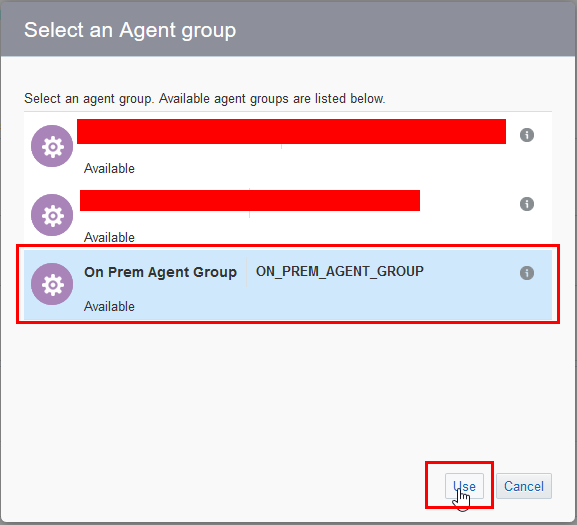
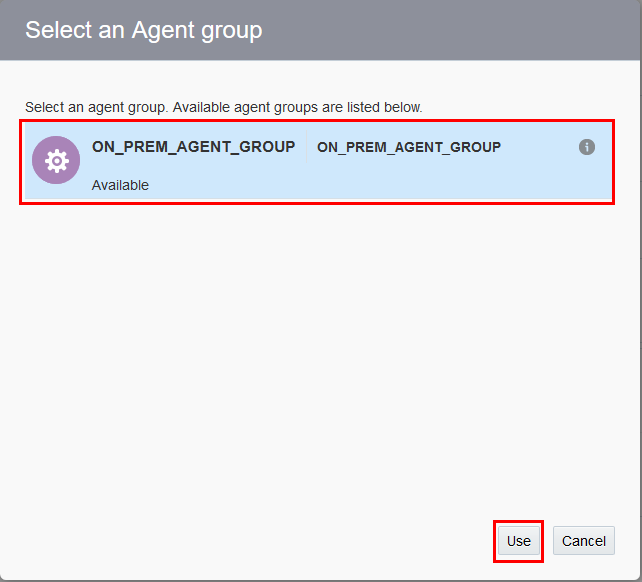
Changes to Lab 400, 500 and 600

diff --git a/ics400.md b/ics400.md
@@ -1,46 +1,60 @@
 <img class="float-right" src="images/j2c-logo.png" width="200">
-# Lab 400 - Create an OIC Integration by using an EBS Adapter and API call
+# Lab 400 - Create an OAIC Integration by using an EBS Adapter and API call
 
 ---
 
 ## Introduction
 
-This is the forth of several labs that are part of the **OIC Integration Development** workshop. 
+This is the forth of several labs that are part of the **OAIC Integration Development** workshop. 
 
-In this lab, you create an integration using the OIC SOAP and EBS adapter to call an EBS API in order to create an Order in EBS using the Order Management module.
+In this lab, you create an integration using the OAIC SOAP and EBS adapter to call an EBS API in order to create an Order in EBS using the Order Management module.
 
-The OIC integration that we'll be building is shown in the following picture:
+The OAIC integration that we'll be building is shown in the following picture:
 
 ![](images/400/image000.png)
 
 Here is a description of what is happening with this integration:
 
-SoapUI will be used to test the exposed Web Service endpoint of the ICS integration called *UserXX Create EBS Order* (where XX will be the Number assigned by the Instructor).   This integration has 2 connections.  The incoming message is received by the incoming *UserXX SOAP* Soap Connection which contains  the details needed to create an order. The orchestration finally uses the *UserXX EBS OPERATIONS* EBS Adapter connection for creating the order in EBS.  After the order is created in EBS, the Order Number is returned to the calling web service.
+SoapUI will be used to test the exposed Web Service endpoint of the OAIC integration called *UserXX Create EBS Order* (where XX will be the Number assigned by the Instructor).   This integration has 2 connections.  The incoming message is received by the incoming *UserXX SOAP* Soap Connection which contains  the details needed to create an order. The orchestration finally uses the *UserXX EBS OPERATIONS* EBS Adapter connection for creating the order in EBS.  After the order is created in EBS, the Order Number is returned to the calling web service.
 
 ## Objectives
 
 - Learn how to create a SOAP Adapter Connection
-- Learn how to create OIC EBS Adapter Connections
-- Learn how to create an OIC Integration Orchestration to use the new EBS Adapter
-- Test the updated OIC integration using SoapUI
+- Learn how to create OAIC EBS Adapter Connections
+- Learn how to create an OAIC Integration Orchestration to use the new EBS Adapter
+- Test the updated OAIC integration using SoapUI
 
 ## Required Artifacts
 
 - The following lab and an Oracle Integration Cloud account that will be supplied by your instructor.
 - An EBS instance and connection URL that will be provided by your instructor.
-- SoapUI will need to be installed for OIC integration testing - see *Prerequisites* section of the workshop for details
+- SoapUI will need to be installed for OAIC integration testing - see *Prerequisites* section of the workshop for details
 
 ## Create the SOAP and EBS Connections
 
-### - Login to your Oracle Cloud account
+### Login to OAIC Integration Home Page
 
-### Login to OIC Integration Home Page
+---
 
->***NOTE:*** the **User Name** and **Password** values will be given to you by your instructor. See _Lab 100 **1.1.1**: Login to your Oracle Cloud Account_ for more information on how to sign into the OIC Integration home page
+- From your browser (Firefox or Chrome recommended) login to the OIC Integration Console using the following URL:
+
+OIC Integration Home Page - https://**OAIC Instance URL**/ic/integration/home/faces/global
+
+**OAIC Home Page URL** provided by your instructor
+
+- Enter your `User Name` and `Password` and click **Sign In** if required
+
+***NOTE:*** the **User Name and Password** values will be given to you by your instructor.
+
+![](images/300/image002.png)  
+
+- You may be presented with the tutorial overlay for the OAIC Service Console - since we already went through OAIC in Lab 100, dismiss the tutorial by clicking on _Got It!_
+
+	![](images/300/image004d.png)
 
 ------
 
-You will now be presented with the ICS Service Console from which you will be performing the rest of this workshop lab.
+You will now be presented with the OAIC Service Console from which you will be performing the rest of this workshop lab.
 
 ![](images/300/image004c.png)
 
@@ -78,7 +92,8 @@ NOTE: The "SOAP" header will show that the connection is both "Trigger and Invok
 ![](images/300/image009.png) 
 
 - For the *WSDL URL*, enter the property value for the WSDL as follows:
-	_https://github.com/OracleCPS/oichybridintegration/blob/CSH-Austin/artifacts/createorder.wsdl_
+	_https://oraclecps.github.io/oichybridintegration/artifacts/createorder.wsdl_
+
 
 	![](images/300/image010.png) 
 
@@ -90,7 +105,7 @@ NOTE: The "SOAP" header will show that the connection is both "Trigger and Invok
 
 	![](images/300/image014.png)
 
-- Select *No Security Policy* from the picklist of _Security Policies_ (because only ICS credentials will be needed for this SOAP API), then select the *OK* button.
+- Select *No Security Policy* from the picklist of _Security Policies_ (because only OAIC credentials will be needed for this SOAP API), then select the *OK* button.
 
 	![](images/300/image015.png)
 
@@ -170,13 +185,13 @@ After the security policy properties have been setup, click on the *OK* button t
 
 ![](images/400/image006.png)
 
-- Select an Agent Group for this EBS Adapter. The EBS instance is not available over the internet so we are using OIC Connectivity Agent to communicate with EBS Integrated SOA Gateway through OIC EBS Adapter.
+- Select an Agent Group for this EBS Adapter. The EBS instance is not available over the internet so we are using OAIC Connectivity Agent to communicate with EBS Integrated SOA Gateway through OAIC EBS Adapter.
 
-Note: Select the *Configure Agents* button so we can setup the association between this adapter and the ICS Connectivity Agent. 
+Note: Select the *Configure Agents* button so we can setup the association between this adapter and the OAIC Connectivity Agent. 
 
 ![](images/400/image009b.png)
 
-- Select **On Prem Agent Group** agent group and **Use** button.
+- Select **ON_PREM_AGENT_GROUP** agent group and **Use** button.
 
 	![](images/400/image009c.png)
 
@@ -198,7 +213,7 @@ Note: Select the *Configure Agents* button so we can setup the association betwe
 
 	![](images/400/image012.png)
 
-## Part 2: Create the ICS Integration to Create an Order in EBS
+## Part 2: Create the OAIC Integration to Create an Order in EBS
 
 ### Create Orchestration Integration
 
@@ -226,13 +241,13 @@ After you've filled in the information, select the **Create** button
 
 ![](images/400/lab4001.png)
 
-- Observe the design canvas for the new integration.  (The various features of the ICS designer were covered in lab 100 **Exploring ICS** earlier in this workshop)
+- Observe the design canvas for the new integration.  (The various features of the OAIC designer were covered in lab 100 **Exploring OAIC** earlier in this workshop)
 
 	![](images/400/lab4001a.png)
 
 - Create the Trigger for the orchestration. This integration will have a SOAP WSDL endpoint as defined when we created the **UserXX SOAP** connector earlier.
 
-Expand the list of SOAP Triggers by clicking on the **SOAP(X)** link (where `X` will be the number of SOAP connections in the ICS instance - this will vary depending on how many others are running the workshop together).
+Expand the list of SOAP Triggers by clicking on the **SOAP(X)** link (where `X` will be the number of SOAP connections in the OAIC instance - this will vary depending on how many others are running the workshop together).
 
 Click and drag your SOAP connection identified by your assigned user (ie: `UserXX SOAP`) over to the **Start** target.  
 
@@ -337,7 +352,7 @@ Note that the *Service Status* of `Ready to Use` indicates that the API has alre
 
 ---
 
-- Before we modify the mapping for the `PROCESS_ORDER` API, it's a good practice in OIC Integration to create some variables in an *Assign* action to simplify the mapping process.  The variables can then also be reused across multiple API invocations if necessary.
+- Before we modify the mapping for the `PROCESS_ORDER` API, it's a good practice in OAIC Integration to create some variables in an *Assign* action to simplify the mapping process.  The variables can then also be reused across multiple API invocations if necessary.
 
 - Click on the `Start` icon in the upper right of the designer in order to zoom into the top of the orchestration
 
@@ -402,7 +417,7 @@ Note that the action tray will go away after you select your connector and start
 
 ---
 
-There are a total of 21 target variables that need to be mapped to successfully execute the EBS PROCESS_ORDER API call.  The next 3 sections will guide you through the process of mapping all these attributes.  Mapping many fields can be a common task while working with integrations.  OIC Integration has the capability to do very complex mappings if necessary.
+There are a total of 21 target variables that need to be mapped to successfully execute the EBS PROCESS_ORDER API call.  The next 3 sections will guide you through the process of mapping all these attributes.  Mapping many fields can be a common task while working with integrations.  OAIC Integration has the capability to do very complex mappings if necessary.
 
 - The *createEBSOrder* mapping orchestration step is just above the corresponding *createEBSOrder* API invocation.
 
@@ -650,7 +665,7 @@ Progress Note: You've mapped the 21 target variables and are almost done... but 
 
 ---
 
-- ICS has a built-in test harness so that you can see if the changes you made to your mapping actually work.
+- OAIC has a built-in test harness so that you can see if the changes you made to your mapping actually work.
 
 - First, select the *Test* button just below the *Validate* button just pressed.
 
@@ -742,7 +757,7 @@ Progress Note: You've mapped the 21 target variables and are almost done... but 
 
 - The `Activate Integration?` dialog will be displayed
 
-- Select the *Enable tracing* and *Include Payload* checkboxes since this isn’t a production deployment.  The checkboxes will tell ICS that the payloads for each instance of the integration will be saved in the logfiles as explored in the first part of this lab earlier.
+- Select the *Enable tracing* and *Include Payload* checkboxes since this isn’t a production deployment.  The checkboxes will tell OAIC that the payloads for each instance of the integration will be saved in the logfiles as explored in the first part of this lab earlier.
 
 - Now select the *Activate* button to begin activation of the integration.
 
@@ -750,7 +765,7 @@ Progress Note: You've mapped the 21 target variables and are almost done... but 
 
 - Once the integration is activated you will see that the activation slider now is colored green with a checkmark in it.
 
-- A message will appear on the top of the ICS Designer Portal indicating that the integration activation was successful.  The WSDL for the service endpoint will also be displayed.
+- A message will appear on the top of the OAIC Designer Portal indicating that the integration activation was successful.  The WSDL for the service endpoint will also be displayed.
 
 	![](images/400/image072.png)
 
@@ -762,7 +777,7 @@ Progress Note: You've mapped the 21 target variables and are almost done... but 
 
 	![](images/400/image073.png)
 
-- The WSDL for you new ICS integration will now be displayed in your browser.
+- The WSDL for you new OAIC integration will now be displayed in your browser.
 
 - Copy the WSDL URL into your copy buffer so we can test it in the next lab section.
 
@@ -770,7 +785,7 @@ Progress Note: You've mapped the 21 target variables and are almost done... but 
 
 - Now that we have built and activated an integration and copied it's service endpoint, we can test it with some sample data to make sure it works.
 
-## Part 3: Test the ICS Integration
+## Part 3: Test the OAIC Integration
 
 ---
 
@@ -780,7 +795,7 @@ Progress Note: You've mapped the 21 target variables and are almost done... but 
 
 	![](images/200/image052.png)
 
-- Click on the **SOAP** button so we can create a new project for testing our new ICS SOAP Web Service
+- Click on the **SOAP** button so we can create a new project for testing our new OAIC SOAP Web Service
 
 	![](images/300/image089.png)
 
@@ -811,7 +826,7 @@ Progress Note: You've mapped the 21 target variables and are almost done... but 
 
 	![](images/400/soapTest2.png)
 
-- Next we need to add the authorization credentials so ICS will allow the request from SoapUI.  ICS uses basic username/password authentication.
+- Next we need to add the authorization credentials so OAIC will allow the request from SoapUI.  OAIC uses basic username/password authentication.
 
 - Click on the **Auth** button in the lower-left of the **Request 1** SoapUI window
 
@@ -827,7 +842,7 @@ Progress Note: You've mapped the 21 target variables and are almost done... but 
 
 	![](images/300/image095.png)
 
-- ICS needs two headers in the request payload to satisfy the enforced Web Services Security (WSS) standards.  It needs both the **WSS Username Token** and the **WS-Timestamp**.
+- OAIC needs two headers in the request payload to satisfy the enforced Web Services Security (WSS) standards.  It needs both the **WSS Username Token** and the **WS-Timestamp**.
 
 - Insert the **WSS Username Token** by right-clicking in the Request payload body and select **Add WSS Username Token** from the pull-down list
 
@@ -845,15 +860,15 @@ Progress Note: You've mapped the 21 target variables and are almost done... but 
 
 	![](images/300/image099.png)
 
-- Finally your request payload is ready to send to ICS.
+- Finally your request payload is ready to send to OAIC.
 
 - Click on the green _Submit Request_ arrow in the upper left of the **Request 1** window.
 
 	![](images/300/image100.png)
 
-- The right side of the **Request 1** SoapUI window will display the results of the ICS integration call.
+- The right side of the **Request 1** SoapUI window will display the results of the OAIC integration call.
 
-- The return payload of the ICS integration will show the Order Number and the status of `S` for _Success_.
+- The return payload of the OAIC integration will show the Order Number and the status of `S` for _Success_.
 
 	![](images/400/soapTest3.png)
 
@@ -877,6 +892,6 @@ Note that the _Order Amount_ shown is larger than that of the quote because of s
 
 ![](images/400/image81.png)
 
-You have now completed the final lab of the ICS Developer Workshop.  
+You have now completed the final lab of the OAIC Developer Workshop.  
 
-Congratulations! You should now have a much better understanding of how to work with ICS to create complex integrations.
+Congratulations! You should now have a much better understanding of how to work with OAIC to create complex integrations.

diff --git a/ics600.md b/ics600.md
@@ -1,9 +1,9 @@
 <img class="float-right" src="images/j2c-logo.png" width="200">
-# Lab 600: Add ABCS Screen to Trigger Process Order Web Service
+# Lab 600: Add VBCS Screen to Trigger Process Order Web Service
 
 ## Introduction
 
-In this Lab we are going to use AIC ABCS to create a UI, then call Process Orders Web Service..
+In this Lab we are going to use AIC VBCS to create a UI, then call Process Orders Web Service..
 
 In the previous lab, we created a Process to approve/reject orders. In this lab, we are going to build a Graphical User Interface to create an order and call the Process Orders web service. 
 
@@ -37,7 +37,11 @@ In the previous lab, we created a Process to approve/reject orders. In this lab,
 
 	![](images/600/image0003.png)
 
-- Upload the zip file for the visual application provided by your instructor, and fill in the information to import the application. 
+- Download EBS-CreateOrder.zip using the link below to a local folder:
+
+	_https://oraclecps.github.io/oichybridintegration/artifacts/EBS-CreateOrder.zip_
+
+- Upload the EBS-CreateOrder.zip file for the visual application from your local folder and fill in the information to import the application. 
 	- **Applicaton Name:** Enter in the form of _UserXX EBS-CreateOrder_ where XX is the number in your allocated user.
 
 	![](images/600/image0004.png)
@@ -183,7 +187,7 @@ Now, the Process Order web service has been configured and the parameters are ma
 
 
 ```
-You have now completed Lab 600 of the AIC Developer Workshop. In the next lab, we will use AIC ABCS to invoke Approval Workflow when a Declined Order is returned from Web Service call
+You have now completed Lab 600 of the AIC Developer Workshop. In the next lab, we will use AIC VBCS to invoke Approval Workflow when a Declined Order is returned from Web Service call
 
 - This Lab is now completed.
 

diff --git a/ics500.md b/ics500.md
@@ -5,9 +5,9 @@
 
 ## Introduction
 
-This is the fifth of several labs that are part of the **Oracle Autonomous Integration Cloud (AIC) Hybrid Integration Development** workshop. 
+This is the fifth of several labs that are part of the **Oracle Autonomous Integration Cloud (OAIC) Hybrid Integration Development** workshop. 
 
-In this Lab we are going to use AIC Process Automation capability to implement a Business Process that will be triggered when an order in submited."
+In this Lab we are going to use OAIC Process Automation capability to implement a Business Process that will be triggered when an order in submited."
 
 The Approval Workflow that we'll be building is shown in the following picture:
 
